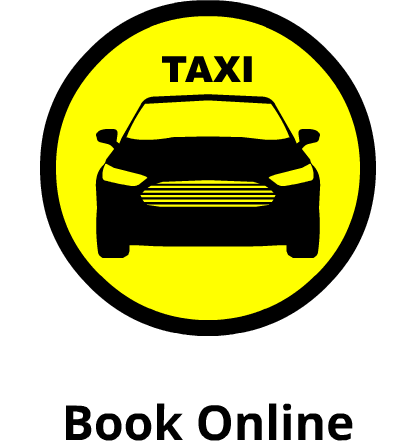
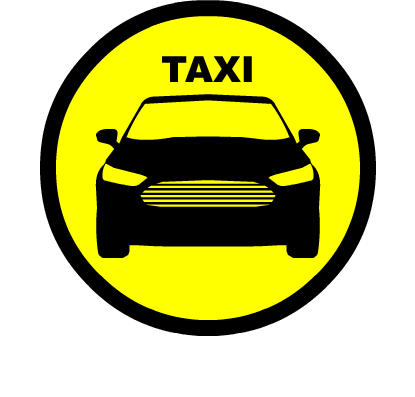
test upload to rekra

diff --git a/resources/views/layouts/index.blade.php b/resources/views/layouts/index.blade.php
@@ -74,13 +74,13 @@
                     <ul class="nav navbar-nav navbar-right">
                         <li class="active"><a href="#hero">Home<span class="sr-only">(current)</span></a></li>
                         <li><a data-scroll href="#book-trailer">Trailer</a></li>
-                        <li><a data-scroll href="#what-you-learn">Learn</a></li>
+                        <li><a data-scroll href="#what-you-learn">book your vehicle</a></li>
                         <li><a data-scroll href="#chapters">Chapters</a></li>
                         <li><a data-scroll href="#free-chapter">free chapter</a></li>
                         <li><a data-scroll href="#gallery">gallery</a></li>
                         <li><a data-scroll href="#reviews">reviews</a></li>
                         <li><a data-scroll href="#read-anywhere">read</a></li>
-                        <li><a data-scroll href="#bonuses">bonuses</a></li>
+                        <li><a data-scroll href="#bonuses">top destinations</a></li>
                         <li><a data-scroll href="#pricing">pricing</a></li>
                         <li><a data-scroll href="#faq">faq</a></li>
                         <li><a data-scroll href="#author">author</a></li>

diff --git a/resources/views/home.blade.php b/resources/views/home.blade.php
@@ -136,7 +136,7 @@
 
                     </blockquote>
 
-                    <a data-scroll href="#what-you-learn" class="buy-now btn btn-block custom-button">order your copy</a>
+                    <a data-scroll href="#what-you-learn" class="buy-now btn btn-block custom-button">BOOK NOW</a>
 
                 </div>
             </div><!-- End: .container-custom -->
